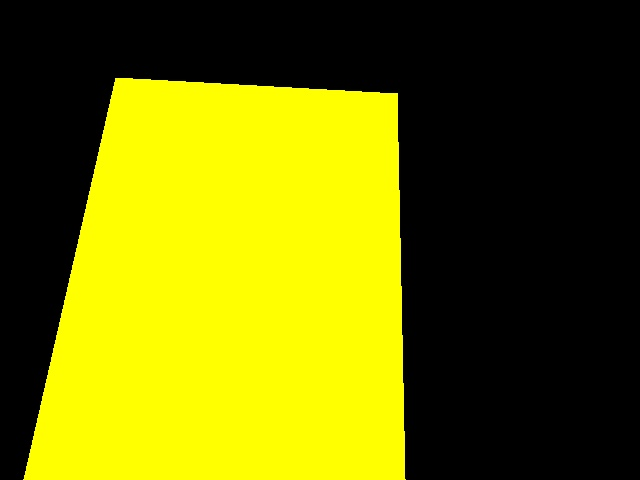
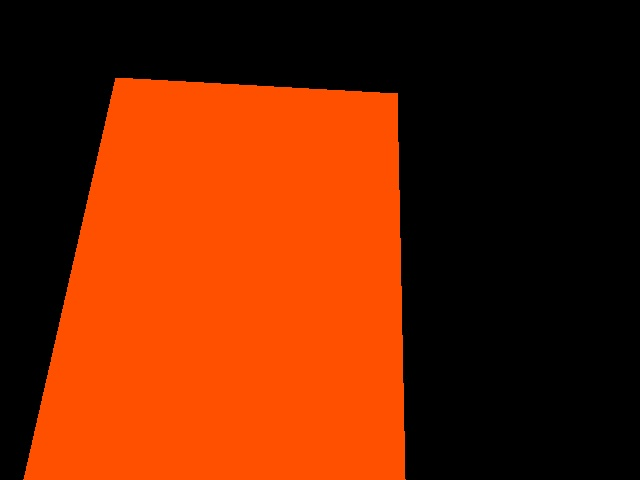
update masks

diff --git a/utils/visualize.py b/utils/visualize.py
@@ -27,7 +27,7 @@ class Visualize:
 
     def draw_static_contents(self, img_array, name):
         mask = self.masks_dict[name]
-        overlap = cv2.addWeighted(img_array, 1, mask, 0.5, 0)
+        overlap = cv2.addWeighted(img_array, 1, mask, 0.6, 0)
         return overlap
 
     @staticmethod
